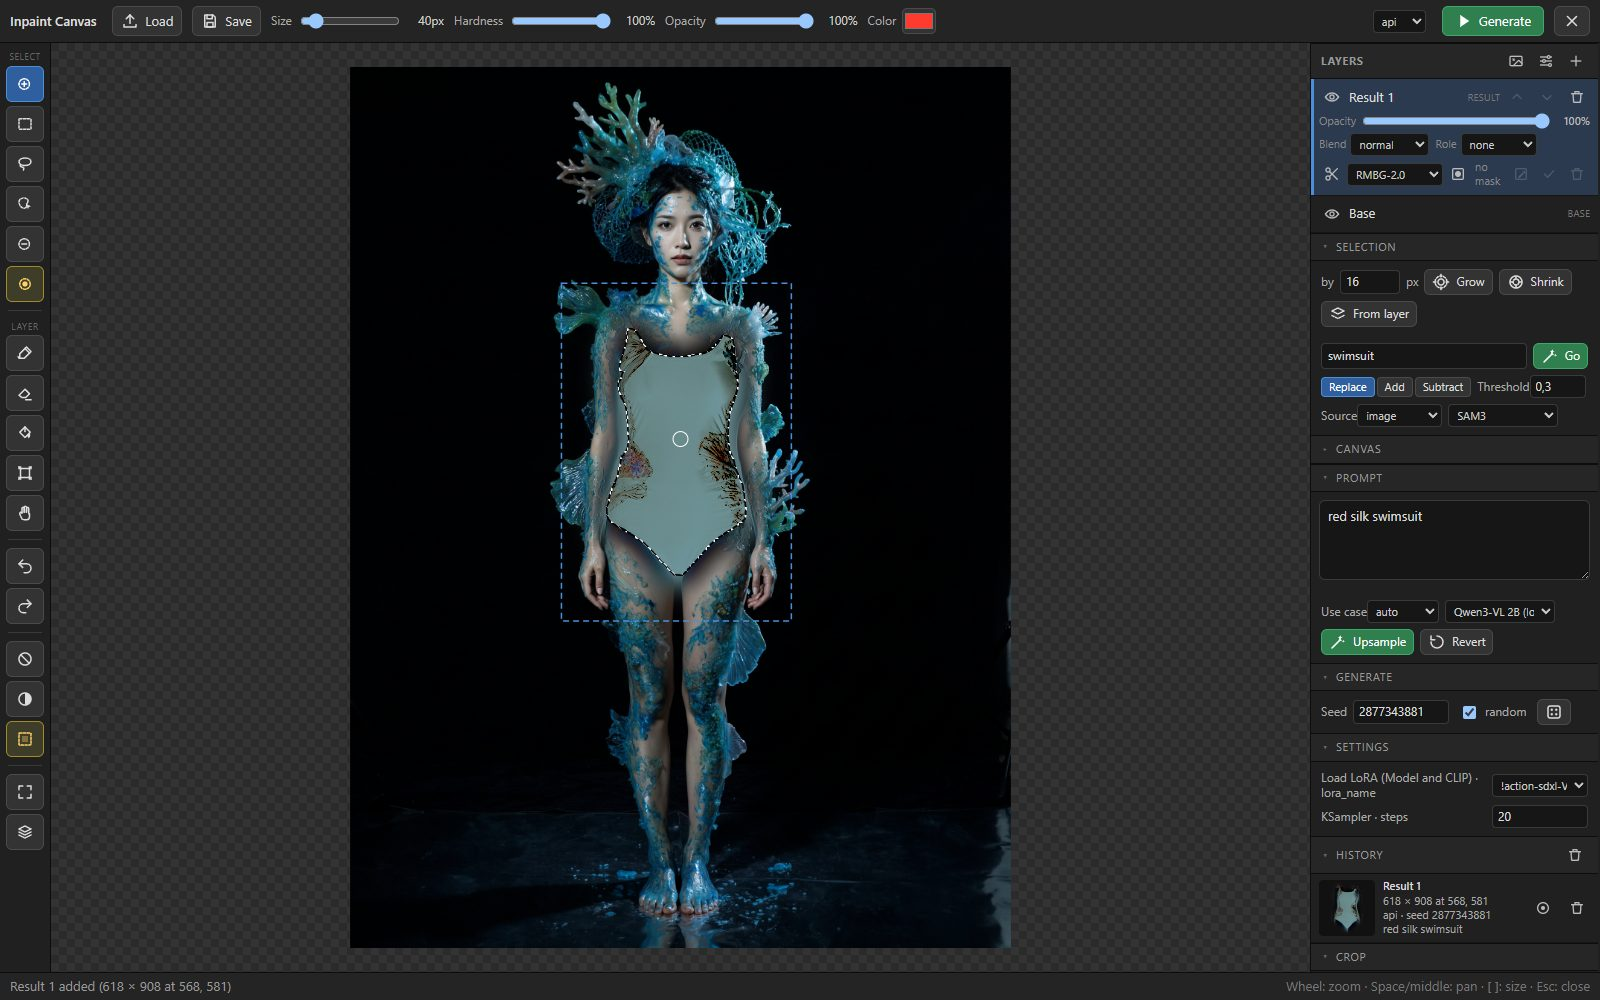
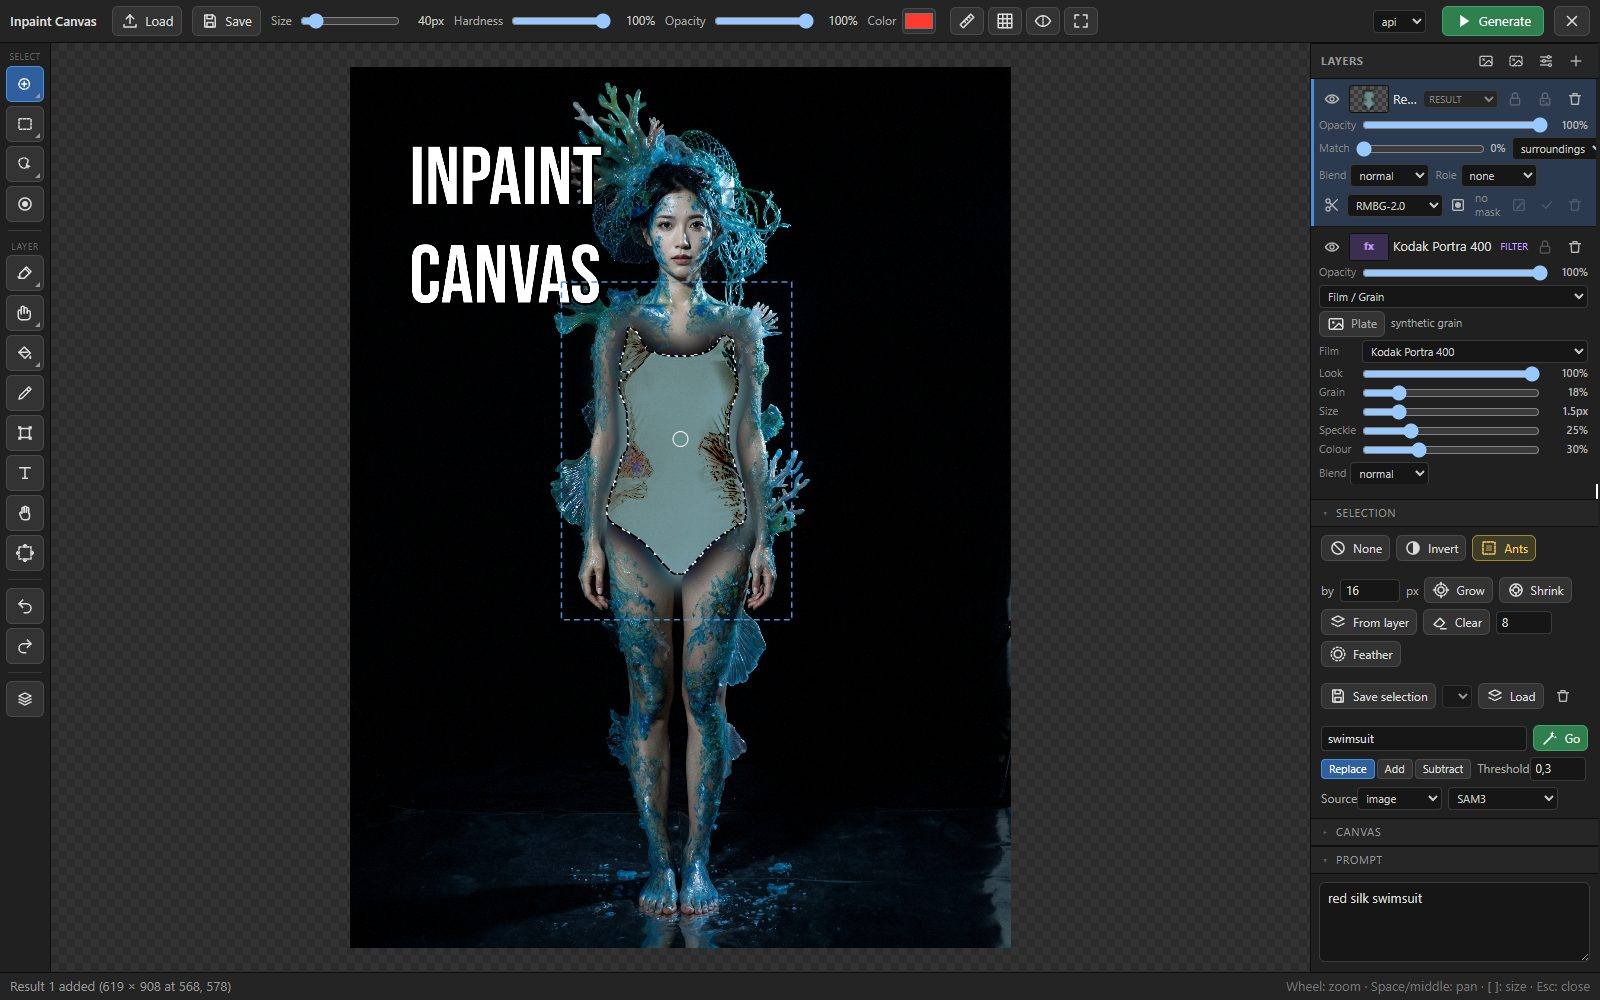
One rule for the tool column (left click = tool, right-click / hold = group); view toggles in the top bar, selection actions in the panel; README highlights rewritten, screenshots regenerated, layers screenshot

diff --git a/js/inpaint_canvas.js b/js/inpaint_canvas.js
@@ -694,6 +694,8 @@ const STYLE = `
 .ipc-top { display:flex; align-items:center; gap:10px; padding:6px 10px; background:#242424; border-bottom:1px solid #0d0d0d; flex-wrap:wrap; }
 .ipc-top .ipc-title { font-weight:600; margin-right:6px; }
 .ipc-top .ipc-grow { flex:1; }
+.ipc-top .ipc-viewbox { display:inline-flex; gap:4px; margin-left:4px; }
+.ipc-top .ipc-viewbox .ipc-ib { padding:4px 7px; min-width:0; }
 .ipc-top label { display:flex; align-items:center; gap:6px; color:#aaa; font-size:12px; }
 .ipc-top label span { min-width:36px; text-align:right; color:#ccc; }
 .ipc-top input[type=range] { width:100px; }
@@ -1054,6 +1056,18 @@ class InpaintEditor {
         this.colorInput.addEventListener("input", () => { this.color = this.colorInput.value; });
         colorLabel.appendChild(this.colorInput);
         top.appendChild(colorLabel);
+        // view toggles
+        const viewBox = el("span", "ipc-viewbox");
+        this.rulersBtn = iconButton("ruler", "Rulers (Ctrl+Shift+R). Drag a guide out of a ruler; drag it back to remove it; double-click a ruler clears all guides. Layers snap to guides.", () => this.toggleRulers());
+        this.rulersBtn.classList.toggle("ipc-toggle-on", this.showRulers);
+        viewBox.appendChild(this.rulersBtn);
+        this.gridBtn = iconButton("grid", "Grid (Ctrl+Shift+G): lines every 64 px", () => this.toggleGrid());
+        this.gridBtn.classList.toggle("ipc-toggle-on", this.showGrid);
+        viewBox.appendChild(this.gridBtn);
+        this.peekBtn = iconButton("peek", "Before / after: the base image without any layer. Hold \\ for a quick look, click to toggle.", () => { this.peekBase = !this.peekBase; this.peekHold = false; this.peekBtn.classList.toggle("ipc-toggle-on", this.peekBase); this.draw(); });
+        viewBox.appendChild(this.peekBtn);
+        viewBox.appendChild(iconButton("fit", "Fit to view (F); 1 shows 100 %", () => this.fitView()));
+        top.appendChild(viewBox);
 
         top.appendChild(el("span", "ipc-grow"));
         this.modeSel = selectInput(["api", "local"], "api", "Which chain the result comes back from: API = the result input, Local = the result_local input. Only that chain runs.");
@@ -1109,16 +1123,6 @@ class InpaintEditor {
             this.refreshGroupButton(g);
             return g;
         };
-        // a menu button: click opens a flyout of actions and toggles
-        const addMenu = (iconName, title, actions) => {
-            const g = { items: [], tools: [], actions, menu: true, btn: null };
-            const btn = iconButton(iconName, title, () => { if (this.flyout && this.flyout.group === g) this.closeFlyout(); else this.openFlyout(g, btn); });
-            btn.classList.add("ipc-groupbtn");
-            btn.innerHTML += '<span class="ipc-tri"></span>';
-            g.btn = btn;
-            tools.appendChild(btn);
-            return g;
-        };
 
         tools.appendChild(el("div", "ipc-grp", "Select"));
         addGroup([
@@ -1139,16 +1143,6 @@ class InpaintEditor {
         ]);
         this.quickMaskBtn = iconButton("quickmask", "Quick mask (Q): while on, the paint and erase tools edit the selection (paint selects, erase deselects, the bucket works like the wand) and the selection is shown as a red tint.", () => this.toggleQuickMask());
         tools.appendChild(this.quickMaskBtn);
-        addMenu("clear", "Selection: clear (Ctrl+D), invert (Ctrl+I), outline or tint display", [
-            { icon: "clear", label: "Clear", key: "Ctrl+D", title: "Clear selection (Ctrl+D)", onClick: () => this.clearSelection() },
-            { icon: "invert", label: "Invert", key: "Ctrl+I", title: "Invert selection (Ctrl+I)", onClick: () => this.invertSelection() },
-            { icon: "ants", label: "Marching ants", title: "Selection display: marching ants outline (on) or red tint (off)", toggle: () => this.selectionDisplay === "ants", onClick: () => {
-                this.selectionDisplay = this.selectionDisplay === "ants" ? "tint" : "ants";
-                try { localStorage.setItem("ipc.selectionDisplay", this.selectionDisplay); } catch (_) { /* ignore */ }
-                this.draw();
-                this.setStatus(this.selectionDisplay === "ants" ? "Selection shown as an outline." : "Selection shown as a red tint.");
-            } },
-        ]);
         tools.appendChild(el("div", "ipc-sep"));
         tools.appendChild(el("div", "ipc-grp", "Layer"));
         addGroup([
@@ -1175,13 +1169,6 @@ class InpaintEditor {
         tools.appendChild(iconButton("undo", "Undo (Ctrl+Z)", () => this.undoStep()));
         tools.appendChild(iconButton("redo", "Redo (Ctrl+Shift+Z)", () => this.redoStep()));
         tools.appendChild(el("div", "ipc-sep"));
-        tools.appendChild(el("div", "ipc-grp", "View"));
-        addMenu("peek", "View: fit, 100 %, rulers, grid, before / after", [
-            { icon: "fit", label: "Fit to view", key: "F", title: "Fit the image to the window (F)", onClick: () => this.fitView() },
-            { icon: "ruler", label: "Rulers", key: "Ctrl+Shift+R", title: "Rulers (Ctrl+Shift+R). Drag a guide out of a ruler; drag it back to remove it; double-click a ruler clears all guides. Layers snap to guides.", toggle: () => this.showRulers, onClick: () => this.toggleRulers() },
-            { icon: "grid", label: "Grid", key: "Ctrl+Shift+G", title: "Grid (Ctrl+Shift+G): lines every 64 px", toggle: () => this.showGrid, onClick: () => this.toggleGrid() },
-            { icon: "peek", label: "Before / after", key: "\\", title: "Show the base image without any layer. Hold \\ for a quick look, click to toggle.", toggle: () => !!this.peekBase, onClick: () => { this.peekBase = !this.peekBase; this.peekHold = false; this.draw(); } },
-        ]);
         tools.appendChild(iconButton("flatten", "Flatten all visible layers into the base", () => this.flatten()));
         body.appendChild(tools);
 
@@ -1242,6 +1229,24 @@ class InpaintEditor {
             sec.appendChild(el("span", null, "by"));
             sec.appendChild(this.growInput);
             sec.appendChild(el("span", null, "px"));
+            const selRow = el("div", "ipc-sec");
+            const clrSel = iconButton("clear", "Clear the selection (Ctrl+D)", () => this.clearSelection(), "None");
+            clrSel.classList.add("ipc-small");
+            selRow.appendChild(clrSel);
+            const inv = iconButton("invert", "Invert the selection (Ctrl+I)", () => this.invertSelection(), "Invert");
+            inv.classList.add("ipc-small");
+            selRow.appendChild(inv);
+            this.antsBtn = iconButton("ants", "Selection display: marching ants outline (on) or red tint (off)", () => {
+                this.selectionDisplay = this.selectionDisplay === "ants" ? "tint" : "ants";
+                try { localStorage.setItem("ipc.selectionDisplay", this.selectionDisplay); } catch (_) { /* ignore */ }
+                this.antsBtn.classList.toggle("ipc-toggle-on", this.selectionDisplay === "ants");
+                this.draw();
+                this.setStatus(this.selectionDisplay === "ants" ? "Selection shown as an outline." : "Selection shown as a red tint.");
+            }, "Ants");
+            this.antsBtn.classList.add("ipc-small");
+            this.antsBtn.classList.toggle("ipc-toggle-on", this.selectionDisplay === "ants");
+            selRow.appendChild(this.antsBtn);
+            d.appendChild(selRow);
             const grow = iconButton("grow", "Grow the selection by n pixels", () => this.growSelection(+this.growInput.value), "Grow");
             grow.classList.add("ipc-small");
             sec.appendChild(grow);

diff --git a/docs/shots.py b/docs/shots.py
@@ -72,6 +72,17 @@ window.__ipcEv(ed, 'pointermove', 888, 1000, { buttons: 0 });                   
 await window.__wait(300);
 return { status: ed.status, hover: ed.hoverObjectId };
 """),
+    ("layers", r"""
+const ed = window.__ed;
+ed.modeSel.value = 'api'; ed.modeSel.dispatchEvent(new Event('change'));
+ed.clearSelection();
+// a text layer, a film grain filter layer and the result layer, transform bar open
+const T = await ed.addTextLayer(120, 120); T.text.content = 'Inpaint\nCanvas'; T.text.font = 'Bebas Neue'; T.text.size = 220; T.text.color = '#ffffff'; T.text.outline = 6; T.text.outlineColor = '#000000';
+await ed.renderTextLayer(T); await window.__wait(600);
+const F = ed.addFilterLayer('grain'); F.params.preset = 'portra400'; F.params.amount = 18; F.params.size = 1.5; F.params.chroma = 30; F.name = 'Kodak Portra 400'; ed.markFilterChanged(F);
+ed.activeLayerId = T.id; ed.setTool('transform'); ed.renderLayers(); ed.draw(); await window.__wait(600);
+return { layers: ed.layers.map(l => l.name) };
+"""),
     ("result", r"""
 const ed = window.__ed;
 // the local-settings scene left the editor in local mode, where the result is expected on result_local

diff --git a/README.md b/README.md
@@ -14,32 +14,43 @@ reference image, prompt upsampling and a film grain finish.
 
 Highlights
 
-- Full-window editor with selection brush, rectangle, lasso, loop closing,
-  object selection by hovering (SAM2), select by text (SAM3 or GroundingDINO +
-  SAM), grow / shrink, layers with blend modes, paint and erase, transform
-  with rotate, distort and warp, control layers for ControlNet, outpainting.
-- Reference layers for Flux.2 / Kontext multi-reference editing: drop images
-  onto the canvas, they travel with `crop_image` as extra batch images.
-- Layer masks and cutouts: background removal with the installed RMBG nodes
-  (RMBG-2.0, BiRefNet, BEN2, BRIA) becomes an editable transparency mask.
-- Filter layers to finish the picture: grain, sharpen, blur, levels, curves,
-  brightness / contrast, hue / saturation, colour balance, black & white,
-  LUT (.cube) and vignette, non-destructive, with masks and undo.
-- Prompt upsampling with a local vision-language model (Qwen3-VL) or Gemini,
-  tuned per use case: an edit instruction for Flux.2 / Kontext by default,
-  or fill, add, remove, outpaint descriptions.
-- Save the finished image with the workflow embedded, and clean up the
-  node's working files from inside the editor.
-- Auto context and auto feather derived from the selection size, fill modes
-  for the masked area, colour matching when the result is stitched back.
-- An API / Local switch with two result inputs: only the chain of the chosen
-  mode runs, so a paid API node stays idle while you work locally.
-- Denoise, seed, negative prompt and up to eight editor-driven setting outputs
-  (LoRA name, checkpoint, steps, anything with a widget) so you can steer the
-  graph from inside the editor.
-- Helper prompts for segmentation and upsampling run at the front of the
-  queue with only the model nodes they need. Your generation chain is never
-  triggered by them.
+- **Selection like a paint program**: brush with loop closing, rectangle,
+  ellipse, lasso, polygon, magic wand, object selection by hovering (SAM2),
+  select by text (SAM3 or GroundingDINO + SAM), quick mask, grow / shrink /
+  feather, saved selections, marching ants.
+- **Layers**: thumbnails, rename, drag to reorder, duplicate, merge down,
+  lock and alpha lock, solo, blend modes, per-layer colour match, masks and
+  cutouts with the installed RMBG nodes, Ctrl+click picks the layer under the
+  cursor, everything undoable.
+- **Painting and retouch**: soft brush and eraser, pen pressure, straight
+  lines, eyedropper, bucket, gradient, smudge, clone stamp and healing brush,
+  text layers with 17 bundled open-source fonts (or your own) edited right on
+  the canvas.
+- **Transform**: move, scale, rotate at the corners, distort, warp, numeric
+  fields, flip, 90°, snapping to edges, centre and guides; a canvas tool that
+  extends (outpainting) or crops by dragging the frame; resize the image.
+- **Filter layers** to finish the picture: film grain with 46 stock presets
+  and real grain plates, sharpen, blur, levels, curves, brightness / contrast,
+  hue / saturation, colour balance, black & white, LUT (.cube) and vignette,
+  non-destructive, with masks and undo.
+- **Reference layers** for Flux.2 / Kontext multi-reference editing: drop
+  images onto the canvas, switch a layer to *reference* and it travels with
+  `crop_image` as an extra batch image.
+- **Prompt upsampling** with a local vision-language model (Qwen3-VL) or
+  Gemini, tuned per use case: an edit instruction for Flux.2 / Kontext by
+  default, or fill, add, remove, outpaint descriptions.
+- **View**: rulers with guides, grid, before / after, side-by-side compare of
+  two results, rotate the view, 100 % zoom; a tool column with grouped tools
+  and flyouts like Photoshop.
+- **Export**: PNG with the workflow embedded, JPEG, WebP, and layered
+  **PSD** or **ORA** (Krita / GIMP), plus the active layer or the selection
+  mask as PNG; cleanup of the node's working files from inside the editor.
+- **The round trip**: auto context and auto feather from the selection size,
+  fill modes for the masked area, colour matching and alignment when the
+  result is stitched back, an API / Local switch with two result inputs so a
+  paid API node stays idle while you work locally, denoise, seed, negative
+  prompt and up to eight editor-driven setting outputs, helper prompts that
+  never trigger your generation chain.
 
 ## Installation
 
@@ -103,10 +114,12 @@ Rectangle and lasso replace the selection like in Krita and Photoshop; hold
 Shift to add, Alt to subtract. The brush adds, with Alt it subtracts.
 
 The tool column on the left groups related tools Photoshop-style: a button
-shows the group's current tool and a small triangle; hover, right-click or
-hold it to open the group (selection brushes, marquees, smart selection,
-brushes, retouch, fill), and the shortcuts pick any tool directly. Two menu
-buttons hold the selection actions and the view toggles.
+shows the group's current tool and a small triangle. Left-click picks that
+tool; right-click, holding the button or clicking the triangle opens the
+group (selection brushes, marquees, smart selection, brushes, retouch,
+fill), and the shortcuts pick any tool directly. Selection actions (none,
+invert, marching ants) sit in the Selection panel, the view toggles (rulers,
+grid, before / after, fit) in the top bar.
 
 Tools: brush (B), rectangle (R) and ellipse (Shift+R; Ctrl keeps
 them square or round, dragging inside an existing selection moves its
@@ -206,6 +219,8 @@ size, hardness, opacity and the paint colour.
   where they stay available. Text layers are ordinary pixel layers for
   everything else: move them with the text tool, scale and rotate with T,
   mask them, blend them; editing the text renders them again.
+![The layer panel with thumbnails, a text layer, a filter layer and the transform bar](docs/img/layers.jpg)
+
 - The layer list (right): click to activate, Ctrl+click on the canvas
   activates the topmost layer with a pixel under the cursor. Each row has a
   thumbnail, the eye (Alt+click: solo, again to restore), the name
@@ -512,9 +527,8 @@ and files stay.
 | Ctrl+U                       | upsample prompt                          |
 | Ctrl+S                       | save the finished image                  |
 | Ctrl+Enter                   | generate                                 |
-| F                            | fit to view                              |
 | Space / middle mouse / right mouse | pan (wheel zooms)                  |
-| Esc                          | cancel transform, close editor           |
+| Esc                          | cancel transform / text edit / compare / flyout, then close the editor |
 
 While the editor is open all shortcuts belong to it: Ctrl+Z undoes the last
 editor step, not the workflow.
@@ -523,7 +537,7 @@ editor step, not the workflow.
 
 Zoom with the wheel, pan with Space, the middle mouse or H; F fits, 1 shows
 100 % (one image pixel per screen pixel), 4 / 6 rotate the view by 15° like
-Krita and 5 resets it. The View buttons at the bottom of the tool column
+Krita and 5 resets it. The view buttons in the top bar
 toggle **rulers** (Ctrl+Shift+R; drag a guide out of a ruler, drag it back
 to remove it, double-click a ruler clears them, layers snap to guides), the
 **grid** (Ctrl+Shift+G, 64 px) and **before / after** (hold \ or click:
